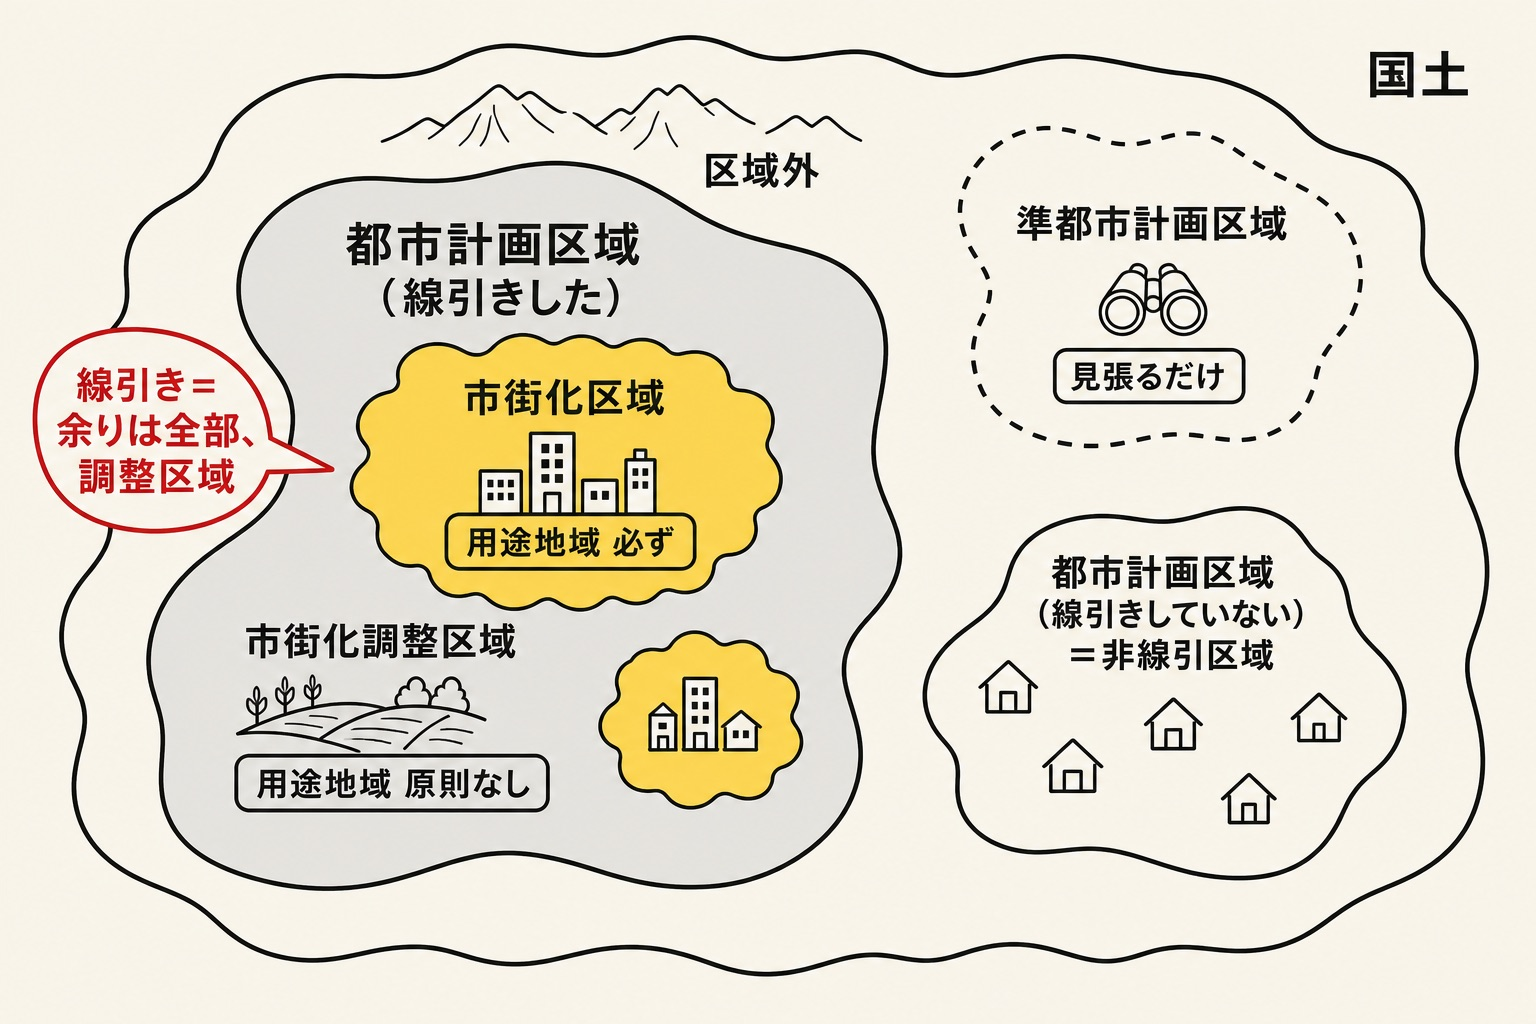
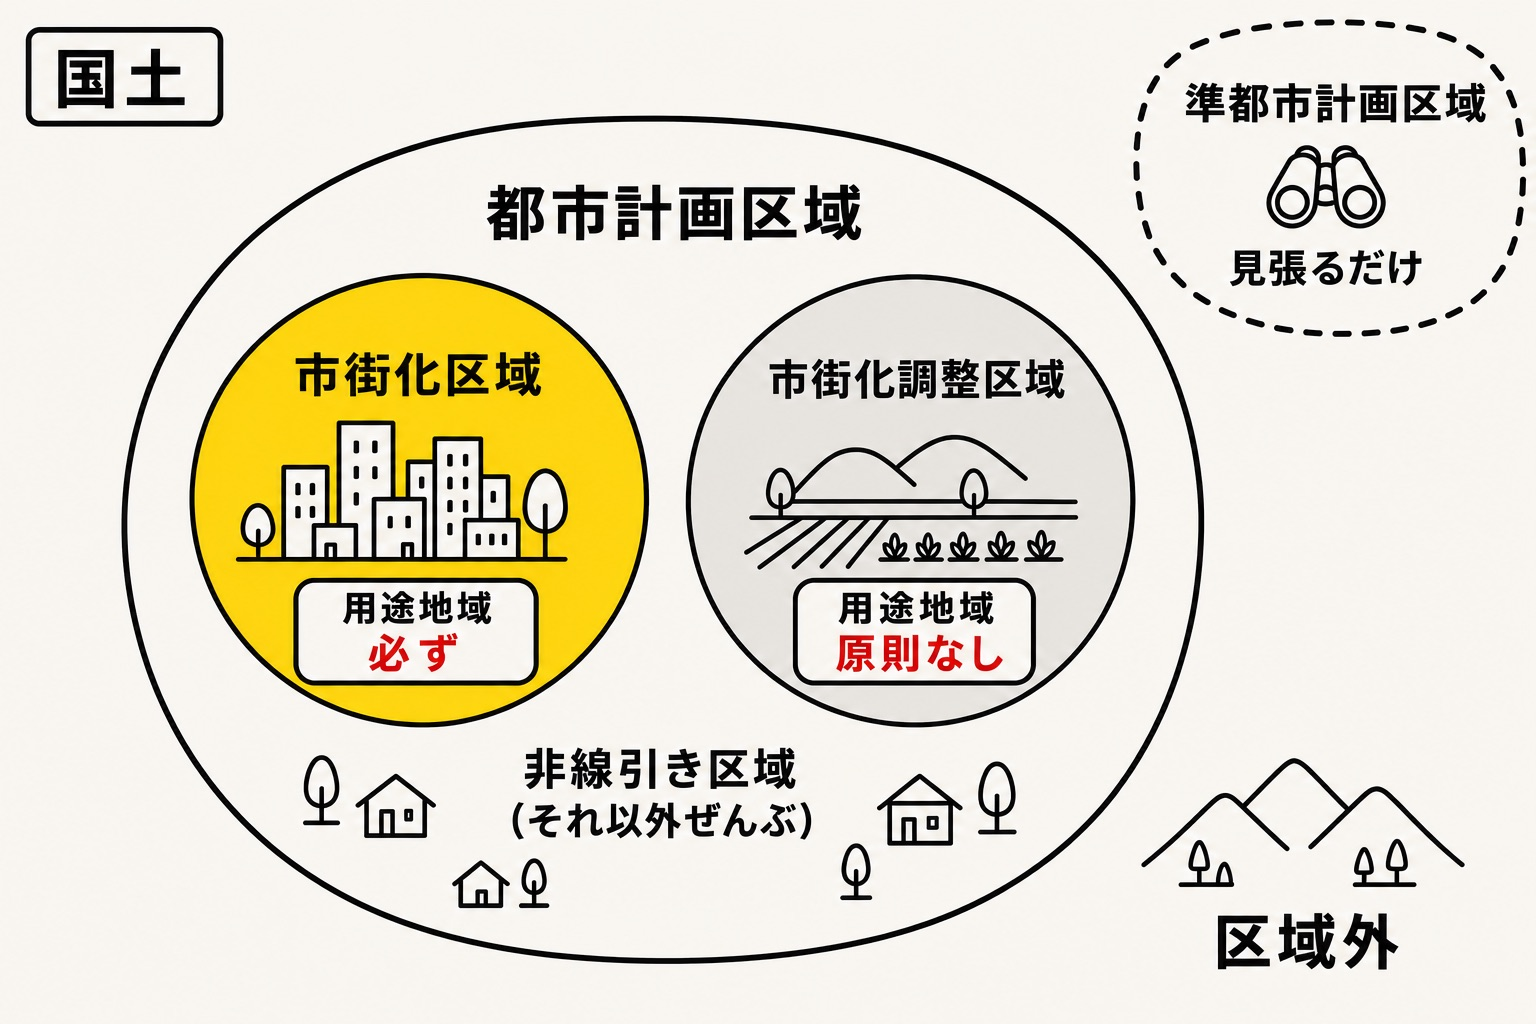
publish: 宅建業法 暗記スライド 図1 v7: 分類の集合図 (都計区域の中に市街化・調整、それ以外ぜんぶ非線引き) + 手続き注記をキャプションへ

diff --git a/plain-0ee08412cf31b48f.html b/plain-0ee08412cf31b48f.html
@@ -1369,7 +1369,7 @@ b,strong{font-weight:700}
 <figure class="zk" id="zk1">
 <figcaption><span class="no">図1</span><b>国土の5分割地図</b><button class="zk-go" data-go="20">スライド20 →</button></figcaption>
 <img src="takken-zukai-0ee08412/zk1.jpg" alt="国土の5分割地図" loading="lazy" width="1536" height="1024">
-<p class="zk-note">区域区分（線引き）は原則「できる」、三大都市圏等では必須。市街化区域は用途地域を必ず定める。用途地域は13種（住居8・商業2・工業3）。</p>
+<p class="zk-note">区域区分（線引き）は原則「できる」、三大都市圏等では必須。用途地域は13種（住居8・商業2・工業3）。<b>線引きは区域単位</b>で行い、線引きした都計区域の中は市街化＋調整で全部埋まる（「いずれにも属さない土地が残る」→×の定番ひっかけ）。線引きしない都計区域が、まるごと非線引き区域。</p>
 </figure>
 
 <figure class="zk" id="zk2">
